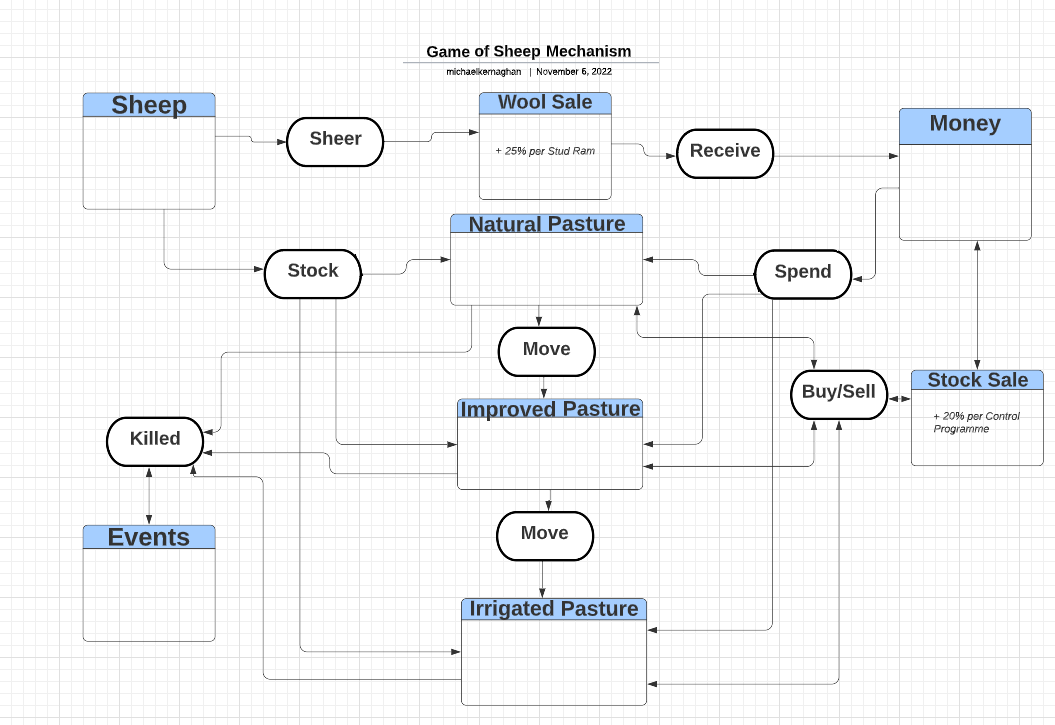
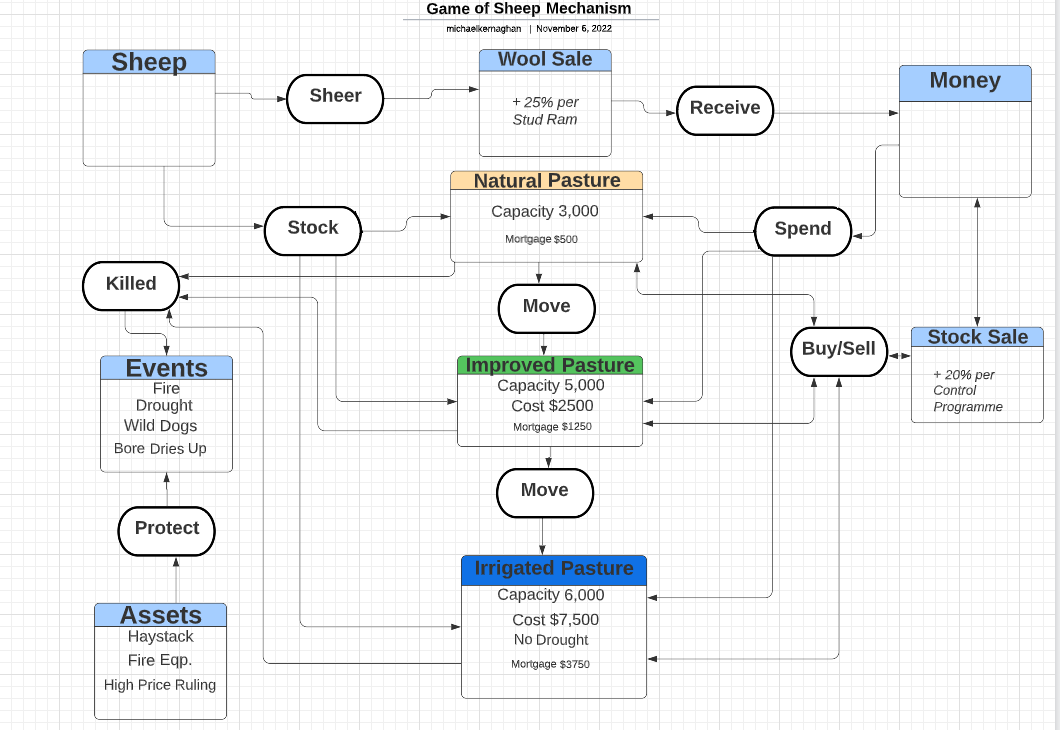
revise mechanism diagram

diff --git a/docs/white_paper.md b/docs/white_paper.md
@@ -183,7 +183,7 @@ To avoid the same sequence of events occurring in each game, the randomizer has 
 
 ## Mechanism Diagram
 
-![](https://i.imgur.com/CzM24on.png)
+![](https://i.imgur.com/r0zdAfM.png)
 
 
 # Social Media and Marketing PLan
